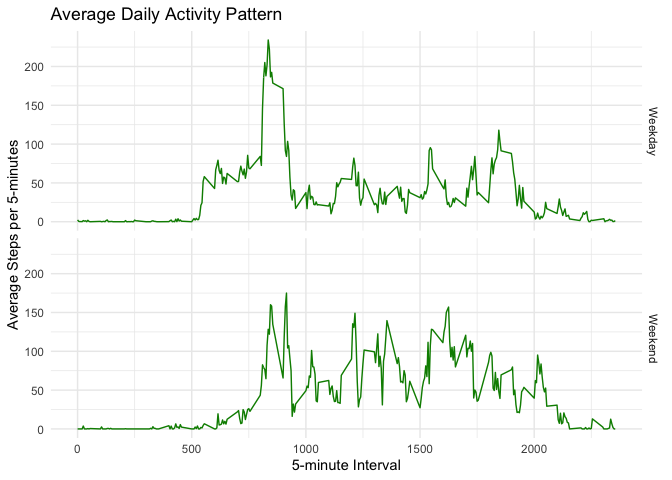
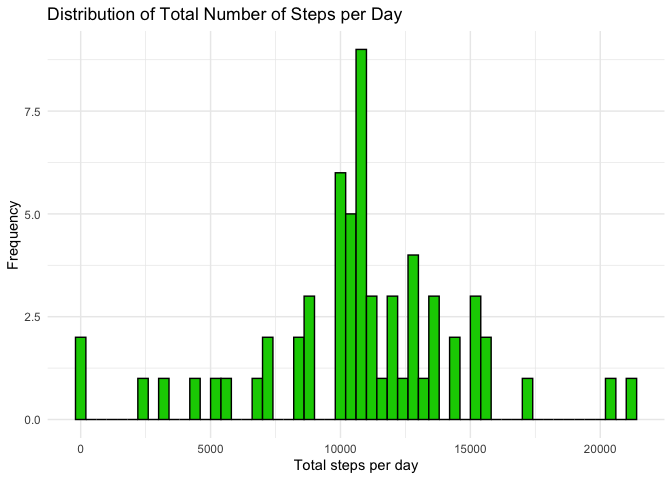
Add NA-filled histogram and explanation

diff --git a/PA1_template.html b/PA1_template.html
@@ -454,6 +454,15 @@ sum(steps_daily$steps)</code></pre>
 sum(steps_daily_filled$steps)</code></pre>
 <pre><code>## [1] 656737.5</code></pre>
 <p>Because I manually changed the observations, now the data indicates the subjects walked much more than they actually did. In other words, by inputting data, I implied that the subject walked during days that, in reality, they did not—at least not according to the original data collection.</p>
+<p>To picture how this difference affects the analysis, I create a histogram of the total number of steps per day with the filled-dataset. The summarizing and plotting code is exactly the same as the previous histogram with the unaltered data, but I use the object steps_daily_filled instead of just steps_daily.</p>
+<pre class="r"><code>ggplot(steps_daily_filled, aes(x = steps)) +
+  geom_histogram(fill = &quot;green3&quot;, color = &quot;black&quot;, binwidth = 400) +
+  xlab(&quot;Total steps per day&quot;) +
+  ylab(&quot;Frequency&quot;) +
+  ggtitle(&quot;Distribution of Total Number of Steps per Day&quot;) +
+  theme_minimal()</code></pre>
[1 lines of base64/hex data omitted]
+<p>In conclusion, although filling the NAs did not affect the mean and median of the data nor altered the distribution of the histogram, it can still lead to misleading numbers depending on what you analyze.</p>
 </div>
 <div id="are-there-differences-in-activity-patterns-between-weekdays-and-weekends" class="section level3">
 <h3>Are there differences in activity patterns between weekdays and weekends?</h3>

diff --git a/PA1_template.md b/PA1_template.md
@@ -190,8 +190,23 @@ sum(steps_daily_filled$steps)
 ```
 ## [1] 656737.5
 ```
-
 Because I manually changed the observations, now the data indicates the subjects walked much more than they actually did. In other words, by inputting data, I implied that the subject walked during days that, in reality, they did not---at least not according to the original data collection. 
+
+To picture how this difference affects the analysis, I create a histogram of the total number of steps per day with the filled-dataset. The summarizing and plotting code is exactly the same as the previous histogram with the unaltered data, but I use the object steps_daily_filled instead of just steps_daily.
+
+```r
+ggplot(steps_daily_filled, aes(x = steps)) +
+  geom_histogram(fill = "green3", color = "black", binwidth = 400) +
+  xlab("Total steps per day") +
+  ylab("Frequency") +
+  ggtitle("Distribution of Total Number of Steps per Day") +
+  theme_minimal()
+```
+
+![](PA1_template_files/figure-html/unnamed-chunk-13-1.png)<!-- -->
+Because I used the averages of the original data to fill in the NAs, the shape and form of the histogram is exactly the same. However, because we added data, the y-axis now depicts greater values. This means that a frequency of a range of steps taken on a given interval was higher than before.
+
+In conclusion, although filling the NAs did not affect the mean and median of the data nor altered the distribution of the histogram, it can still lead to misleading numbers depending on what you analyze.
 
 ### Are there differences in activity patterns between weekdays and weekends?
 
@@ -223,5 +238,5 @@ ggplot(steps_week_int_avg, aes(interval, steps)) +
   theme_minimal()
 ```
 
-![](PA1_template_files/figure-html/unnamed-chunk-13-1.png)<!-- -->
+![](PA1_template_files/figure-html/unnamed-chunk-14-1.png)<!-- -->
 
